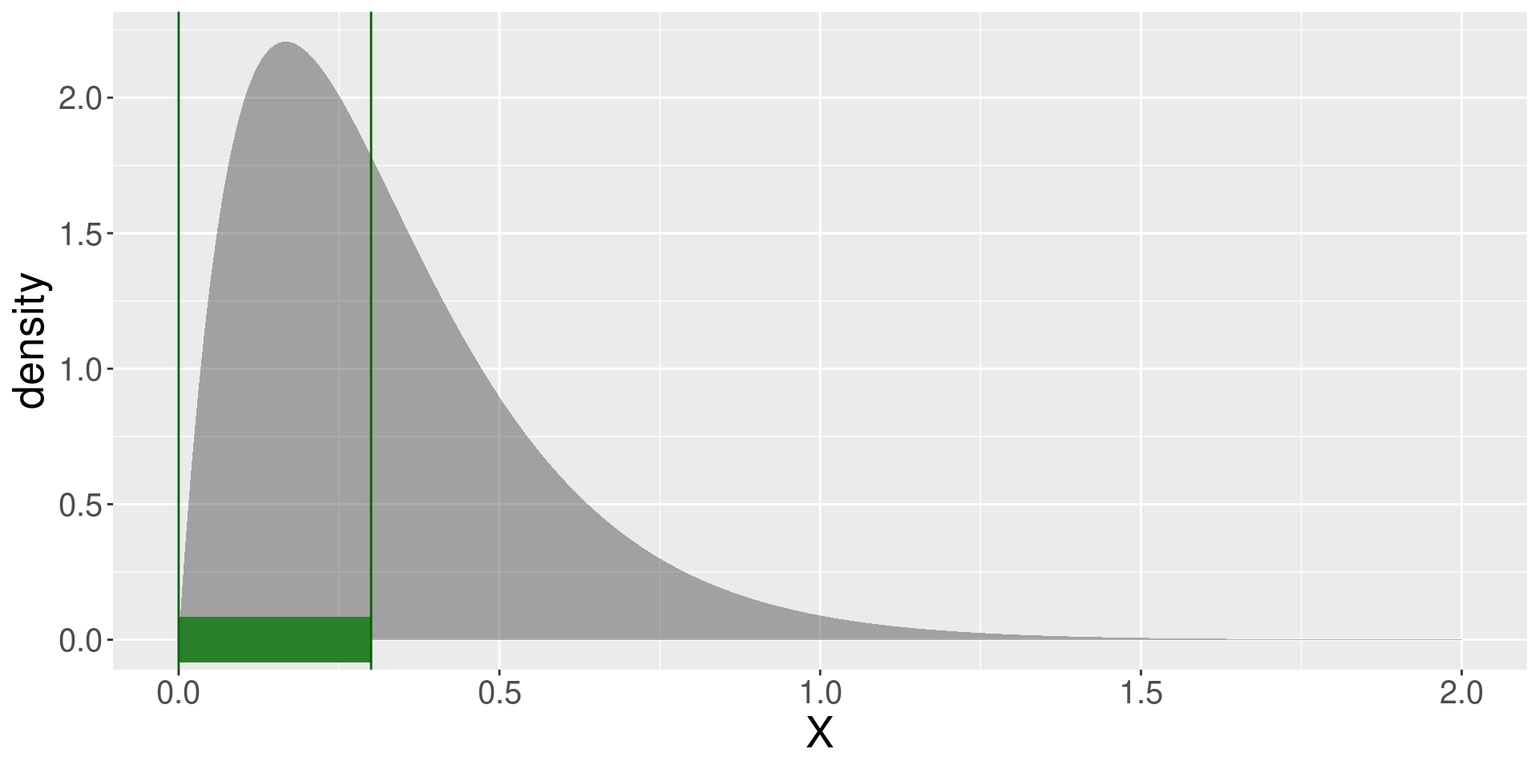
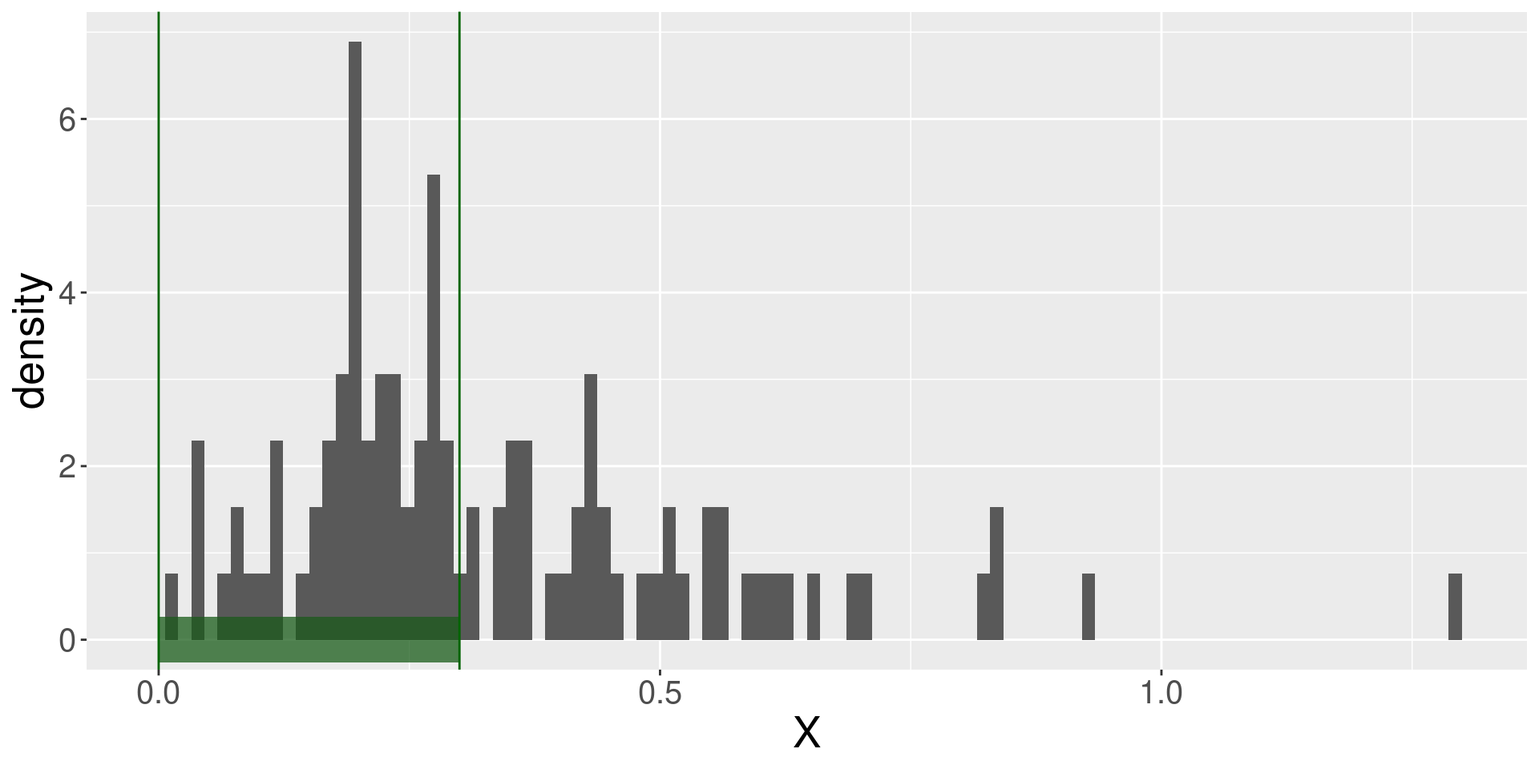
20230930 talk

diff --git a/talks/2023-09-30/index.html b/talks/2023-09-30/index.html
@@ -406,6 +406,7 @@ code {
 
 </div>
 </section>
+<section>
 <section id="a-motivating-example" class="title-slide slide level1 center">
 <h1>A motivating example</h1>
 <p>To estimate how many times I sneeze per hour, I wait and measure the time till my forth sneeze.</p>
@@ -417,7 +418,30 @@ code {
 <li class="fragment"><p>Posterior: <span class="math inline">\(X \vert _Y \sim \Gamma(2+4,6+Y)\)</span></p></li>
 </ul>
 </section>
+<section id="a-motivating-example---cont." class="slide level2">
+<h2>A motivating example - cont.</h2>
+<div class="cell">
+<div class="sourceCode cell-code" id="cb1"><pre class="sourceCode numberSource r number-lines code-with-copy"><code class="sourceCode r"><span id="cb1-1"><a href="#cb1-1"></a><span class="fu">rgamma</span>(<span class="dv">1000</span>, <span class="dv">2</span>, <span class="dv">6</span>) <span class="sc">%&gt;%</span> <span class="fu">qplot</span>()</span></code><button title="Copy to Clipboard" class="code-copy-button"><i class="bi"></i></button></pre></div>
 
+</div>
+<img data-src="index_files/figure-revealjs/unnamed-chunk-3-1.png" width="960" class="r-stretch"></section>
+<section id="a-motivating-example---cont.-1" class="slide level2">
+<h2>A motivating example - cont.</h2>
+<div class="cell">
+<div class="sourceCode cell-code" id="cb2"><pre class="sourceCode numberSource r number-lines code-with-copy"><code class="sourceCode r"><span id="cb2-1"><a href="#cb2-1"></a>(<span class="fu">tibble</span>(<span class="at">x=</span><span class="fu">seq</span>(<span class="dv">0</span>,<span class="dv">2</span>,<span class="fl">0.01</span>),</span>
+<span id="cb2-2"><a href="#cb2-2"></a>        <span class="at">density=</span><span class="fu">dgamma</span>(x, <span class="dv">2</span>, <span class="dv">6</span>)) <span class="sc">%&gt;%</span></span>
+<span id="cb2-3"><a href="#cb2-3"></a>  <span class="fu">ggplot</span>(<span class="fu">aes</span>(x,density)) <span class="sc">+</span> mytheme</span>
+<span id="cb2-4"><a href="#cb2-4"></a>  <span class="sc">+</span> <span class="fu">geom_area</span>())</span></code><button title="Copy to Clipboard" class="code-copy-button"><i class="bi"></i></button></pre></div>
+
+</div>
+<img data-src="index_files/figure-revealjs/unnamed-chunk-4-1.png" width="960" class="r-stretch"></section>
+<section id="a-motivating-example---cont.-2" class="slide level2">
+<h2>A motivating example - cont.</h2>
+<ul>
+<li class="fragment"><p>Waiting for one event of rate <span class="math inline">\(x\)</span> is distributed $Exp(x), <span class="math inline">\(Exp(x) = Gamma(1,x)\)</span> (1-“shape”, <span class="math inline">\(x\)</span>-“rate”),</p></li>
+<li class="fragment"><p>Waiting for 4 events of rate x is distributed <span class="math inline">\(Gamma(4,x)\)</span> (4-shape, <span class="math inline">\(x\)</span>-rate).</p></li>
+</ul>
+</section></section>
 <section>
 <section id="background" class="title-slide slide level1 center">
 <h1>Background</h1>
@@ -440,12 +464,12 @@ code {
 <section id="sample-space-example" class="slide level2">
 <h2>Sample space example</h2>
 <div class="cell">
-<div class="sourceCode cell-code" id="cb1"><pre class="sourceCode numberSource r number-lines code-with-copy"><code class="sourceCode r"><span id="cb1-1"><a href="#cb1-1"></a>N <span class="ot">&lt;-</span> <span class="dv">100</span></span>
-<span id="cb1-2"><a href="#cb1-2"></a><span class="fu">set.seed</span>(<span class="dv">31</span>)</span>
-<span id="cb1-3"><a href="#cb1-3"></a>Omega_finite <span class="ot">&lt;-</span> <span class="fu">tibble</span>(<span class="at">X =</span> <span class="fu">rgamma</span>(N, <span class="dv">2</span>, <span class="dv">6</span>),</span>
-<span id="cb1-4"><a href="#cb1-4"></a>                <span class="at">Y =</span> <span class="fu">rgamma</span>(N, <span class="dv">4</span>, X))</span>
-<span id="cb1-5"><a href="#cb1-5"></a></span>
-<span id="cb1-6"><a href="#cb1-6"></a>Omega_finite <span class="sc">%&gt;%</span> <span class="fu">kable</span>()</span></code><button title="Copy to Clipboard" class="code-copy-button"><i class="bi"></i></button></pre></div>
+<div class="sourceCode cell-code" id="cb3"><pre class="sourceCode numberSource r number-lines code-with-copy"><code class="sourceCode r"><span id="cb3-1"><a href="#cb3-1"></a>N <span class="ot">&lt;-</span> <span class="dv">100</span></span>
+<span id="cb3-2"><a href="#cb3-2"></a><span class="fu">set.seed</span>(<span class="dv">31</span>)</span>
+<span id="cb3-3"><a href="#cb3-3"></a>Omega_finite <span class="ot">&lt;-</span> <span class="fu">tibble</span>(<span class="at">X =</span> <span class="fu">rgamma</span>(N, <span class="dv">2</span>, <span class="dv">6</span>),</span>
+<span id="cb3-4"><a href="#cb3-4"></a>                <span class="at">Y =</span> <span class="fu">rgamma</span>(N, <span class="dv">4</span>, X))</span>
+<span id="cb3-5"><a href="#cb3-5"></a></span>
+<span id="cb3-6"><a href="#cb3-6"></a>Omega_finite <span class="sc">%&gt;%</span> <span class="fu">kable</span>()</span></code><button title="Copy to Clipboard" class="code-copy-button"><i class="bi"></i></button></pre></div>
 <div class="cell-output-display">
 <table>
 <thead>
@@ -863,12 +887,12 @@ code {
 <section id="sample-space-example---cont" class="slide level2">
 <h2>Sample space example - cont</h2>
 <div class="cell">
-<div class="sourceCode cell-code" id="cb2"><pre class="sourceCode numberSource r number-lines code-with-copy"><code class="sourceCode r"><span id="cb2-1"><a href="#cb2-1"></a>(Omega_finite <span class="sc">%&gt;%</span></span>
-<span id="cb2-2"><a href="#cb2-2"></a>  <span class="fu">ggplot</span>(<span class="fu">aes</span>(X,Y))</span>
-<span id="cb2-3"><a href="#cb2-3"></a>  <span class="sc">+</span> <span class="fu">geom_point</span>(<span class="at">size=</span><span class="dv">5</span>))</span></code><button title="Copy to Clipboard" class="code-copy-button"><i class="bi"></i></button></pre></div>
+<div class="sourceCode cell-code" id="cb4"><pre class="sourceCode numberSource r number-lines code-with-copy"><code class="sourceCode r"><span id="cb4-1"><a href="#cb4-1"></a>(Omega_finite <span class="sc">%&gt;%</span></span>
+<span id="cb4-2"><a href="#cb4-2"></a>  <span class="fu">ggplot</span>(<span class="fu">aes</span>(X,Y))</span>
+<span id="cb4-3"><a href="#cb4-3"></a>  <span class="sc">+</span> <span class="fu">geom_point</span>(<span class="at">size=</span><span class="dv">5</span>))</span></code><button title="Copy to Clipboard" class="code-copy-button"><i class="bi"></i></button></pre></div>
 
 </div>
-<img data-src="index_files/figure-revealjs/unnamed-chunk-4-1.png" width="960" class="r-stretch"></section>
+<img data-src="index_files/figure-revealjs/unnamed-chunk-6-1.png" width="960" class="r-stretch"></section>
 <section id="sample-space---remarks" class="slide level2">
 <h2>Sample space - remarks</h2>
 <ul>
@@ -888,9 +912,9 @@ code {
 <h2>Events example</h2>
 <p>“all outcomes <span class="math inline">\(\omega\)</span> in <span class="math inline">\(\Omega_{finite}\)</span> in which I waited at least five hours”</p>
 <div class="cell">
-<div class="sourceCode cell-code" id="cb3"><pre class="sourceCode numberSource r number-lines code-with-copy"><code class="sourceCode r"><span id="cb3-1"><a href="#cb3-1"></a>Omega_finite <span class="sc">%&gt;%</span></span>
-<span id="cb3-2"><a href="#cb3-2"></a><span class="fu">filter</span>(Y<span class="sc">&gt;</span><span class="dv">5</span>) <span class="sc">%&gt;%</span></span>
-<span id="cb3-3"><a href="#cb3-3"></a><span class="fu">kable</span>()</span></code><button title="Copy to Clipboard" class="code-copy-button"><i class="bi"></i></button></pre></div>
+<div class="sourceCode cell-code" id="cb5"><pre class="sourceCode numberSource r number-lines code-with-copy"><code class="sourceCode r"><span id="cb5-1"><a href="#cb5-1"></a>Omega_finite <span class="sc">%&gt;%</span></span>
+<span id="cb5-2"><a href="#cb5-2"></a><span class="fu">filter</span>(Y<span class="sc">&gt;</span><span class="dv">5</span>) <span class="sc">%&gt;%</span></span>
+<span id="cb5-3"><a href="#cb5-3"></a><span class="fu">kable</span>()</span></code><button title="Copy to Clipboard" class="code-copy-button"><i class="bi"></i></button></pre></div>
 <div class="cell-output-display">
 <table>
 <thead>
@@ -1249,6 +1273,17 @@ code {
 </div>
 </div>
 </section>
+<section id="events-example---cont." class="slide level2">
+<h2>Events example - cont.</h2>
+<div class="cell">
+<div class="sourceCode cell-code" id="cb6"><pre class="sourceCode numberSource r number-lines code-with-copy"><code class="sourceCode r"><span id="cb6-1"><a href="#cb6-1"></a>Omega_finite <span class="sc">%&gt;%</span></span>
+<span id="cb6-2"><a href="#cb6-2"></a><span class="fu">filter</span>(Y<span class="sc">&gt;</span><span class="dv">5</span>) <span class="sc">%&gt;%</span></span>
+<span id="cb6-3"><a href="#cb6-3"></a><span class="fu">nrow</span>()</span></code><button title="Copy to Clipboard" class="code-copy-button"><i class="bi"></i></button></pre></div>
+<div class="cell-output cell-output-stdout">
+<pre><code>[1] 86</code></pre>
+</div>
+</div>
+</section>
 <section id="event-space" class="slide level2">
 <h2>Event space</h2>
 <ul>
@@ -1266,9 +1301,9 @@ code {
 <h2>Event space example</h2>
 <p>In this sample space:</p>
 <div class="cell">
-<div class="sourceCode cell-code" id="cb4"><pre class="sourceCode numberSource r number-lines code-with-copy"><code class="sourceCode r"><span id="cb4-1"><a href="#cb4-1"></a><span class="fu">tibble</span>(<span class="at">U=</span><span class="fu">c</span>(<span class="dv">1</span>,<span class="dv">1</span>,<span class="dv">2</span>,<span class="dv">2</span>),</span>
-<span id="cb4-2"><a href="#cb4-2"></a>       <span class="at">V=</span><span class="fu">c</span>(<span class="dv">3</span>,<span class="dv">4</span>,<span class="dv">3</span>,<span class="dv">4</span>)) <span class="sc">%&gt;%</span></span>
-<span id="cb4-3"><a href="#cb4-3"></a><span class="fu">kable</span>()</span></code><button title="Copy to Clipboard" class="code-copy-button"><i class="bi"></i></button></pre></div>
+<div class="sourceCode cell-code" id="cb8"><pre class="sourceCode numberSource r number-lines code-with-copy"><code class="sourceCode r"><span id="cb8-1"><a href="#cb8-1"></a><span class="fu">tibble</span>(<span class="at">U=</span><span class="fu">c</span>(<span class="dv">1</span>,<span class="dv">1</span>,<span class="dv">2</span>,<span class="dv">2</span>),</span>
+<span id="cb8-2"><a href="#cb8-2"></a>       <span class="at">V=</span><span class="fu">c</span>(<span class="dv">3</span>,<span class="dv">4</span>,<span class="dv">3</span>,<span class="dv">4</span>)) <span class="sc">%&gt;%</span></span>
+<span id="cb8-3"><a href="#cb8-3"></a><span class="fu">kable</span>()</span></code><button title="Copy to Clipboard" class="code-copy-button"><i class="bi"></i></button></pre></div>
 <div class="cell-output-display">
 <table>
 <thead>
@@ -1319,7 +1354,7 @@ code {
 <section id="random-variables-example" class="slide level2">
 <h2>Random variables example</h2>
 <div class="cell">
-<div class="sourceCode cell-code" id="cb5"><pre class="sourceCode numberSource r number-lines code-with-copy"><code class="sourceCode r"><span id="cb5-1"><a href="#cb5-1"></a>Omega_finite <span class="sc">%&gt;%</span> <span class="fu">kable</span>()</span></code><button title="Copy to Clipboard" class="code-copy-button"><i class="bi"></i></button></pre></div>
+<div class="sourceCode cell-code" id="cb9"><pre class="sourceCode numberSource r number-lines code-with-copy"><code class="sourceCode r"><span id="cb9-1"><a href="#cb9-1"></a>Omega_finite <span class="sc">%&gt;%</span> <span class="fu">kable</span>()</span></code><button title="Copy to Clipboard" class="code-copy-button"><i class="bi"></i></button></pre></div>
 <div class="cell-output-display">
 <table>
 <thead>
@@ -1737,7 +1772,7 @@ code {
 <section id="random-variables-example---cont." class="slide level2">
 <h2>Random variables example - cont.</h2>
 <div class="cell">
-<div class="sourceCode cell-code" id="cb6"><pre class="sourceCode numberSource r number-lines code-with-copy"><code class="sourceCode r"><span id="cb6-1"><a href="#cb6-1"></a>Omega_finite<span class="sc">$</span>X[<span class="dv">13</span>]</span></code><button title="Copy to Clipboard" class="code-copy-button"><i class="bi"></i></button></pre></div>
+<div class="sourceCode cell-code" id="cb10"><pre class="sourceCode numberSource r number-lines code-with-copy"><code class="sourceCode r"><span id="cb10-1"><a href="#cb10-1"></a>Omega_finite<span class="sc">$</span>X[<span class="dv">13</span>]</span></code><button title="Copy to Clipboard" class="code-copy-button"><i class="bi"></i></button></pre></div>
 <div class="cell-output cell-output-stdout">
 <pre><code>[1] 1.293</code></pre>
 </div>
@@ -1746,8 +1781,8 @@ code {
 <section id="random-variables-coexist" class="slide level2">
 <h2>Random variables coexist</h2>
 <div class="cell">
-<div class="sourceCode cell-code" id="cb8"><pre class="sourceCode numberSource r number-lines code-with-copy"><code class="sourceCode r"><span id="cb8-1"><a href="#cb8-1"></a><span class="fu">c</span>(Omega_finite<span class="sc">$</span>X[<span class="dv">13</span>],</span>
-<span id="cb8-2"><a href="#cb8-2"></a>  Omega_finite<span class="sc">$</span>Y[<span class="dv">13</span>])</span></code><button title="Copy to Clipboard" class="code-copy-button"><i class="bi"></i></button></pre></div>
+<div class="sourceCode cell-code" id="cb12"><pre class="sourceCode numberSource r number-lines code-with-copy"><code class="sourceCode r"><span id="cb12-1"><a href="#cb12-1"></a><span class="fu">c</span>(Omega_finite<span class="sc">$</span>X[<span class="dv">13</span>],</span>
+<span id="cb12-2"><a href="#cb12-2"></a>  Omega_finite<span class="sc">$</span>Y[<span class="dv">13</span>])</span></code><button title="Copy to Clipboard" class="code-copy-button"><i class="bi"></i></button></pre></div>
 <div class="cell-output cell-output-stdout">
 <pre><code>[1] 1.293000 2.958485</code></pre>
 </div>
@@ -1761,10 +1796,10 @@ code {
 <h2>Events of random variables</h2>
 <p><span class="math display">\[Y&gt;5\]</span> means the subset of <span class="math inline">\(\Omega_{finite}\)</span>: <span class="math display">\[\{\omega \in \Omega_{finite} \vert Y(\omega)&gt;5\}\]</span></p>
 <div class="cell">
-<div class="sourceCode cell-code" id="cb10"><pre class="sourceCode numberSource r number-lines code-with-copy"><code class="sourceCode r"><span id="cb10-1"><a href="#cb10-1"></a>Y_is_more_than_five <span class="ot">&lt;-</span> </span>
-<span id="cb10-2"><a href="#cb10-2"></a>  Omega_finite <span class="sc">%&gt;%</span> </span>
-<span id="cb10-3"><a href="#cb10-3"></a>  <span class="fu">filter</span>(Y<span class="sc">&gt;</span><span class="dv">5</span>)</span>
-<span id="cb10-4"><a href="#cb10-4"></a><span class="fu">nrow</span>(Y_is_more_than_five)</span></code><button title="Copy to Clipboard" class="code-copy-button"><i class="bi"></i></button></pre></div>
+<div class="sourceCode cell-code" id="cb14"><pre class="sourceCode numberSource r number-lines code-with-copy"><code class="sourceCode r"><span id="cb14-1"><a href="#cb14-1"></a>Y_is_more_than_five <span class="ot">&lt;-</span> </span>
+<span id="cb14-2"><a href="#cb14-2"></a>  Omega_finite <span class="sc">%&gt;%</span> </span>
+<span id="cb14-3"><a href="#cb14-3"></a>  <span class="fu">filter</span>(Y<span class="sc">&gt;</span><span class="dv">5</span>)</span>
+<span id="cb14-4"><a href="#cb14-4"></a><span class="fu">nrow</span>(Y_is_more_than_five)</span></code><button title="Copy to Clipboard" class="code-copy-button"><i class="bi"></i></button></pre></div>
 <div class="cell-output cell-output-stdout">
 <pre><code>[1] 86</code></pre>
 </div>
@@ -1782,7 +1817,7 @@ code {
 <ul>
 <li class="fragment"><span class="math inline">\(\mathbb{P}(E) \geq 0\)</span> for all <span class="math inline">\(E\)</span> in <span class="math inline">\(\mathcal{F}\)</span></li>
 <li class="fragment"><span class="math inline">\(\mathbb{P}(\Omega) = 1\)</span></li>
-<li class="fragment"><span class="math inline">\(\mathbb{P}(\bigcup_{i=1,2,...} E_i) = \sum_{i=1,2,...} \mathbb{P}(E_i)\)</span></li>
+<li class="fragment"><span class="math inline">\(\mathbb{P}(\bigcup_{i=1,2,...} E_i) = \sum_{i=1,2,...} \mathbb{P}(E_i)\)</span> for pairwise disjoint events</li>
 </ul></li>
 <li class="fragment">A sample space with a probability measure is called a probability space.</li>
 </ul>
@@ -1791,10 +1826,10 @@ code {
 <h2>Probability example</h2>
 <p>For our finite example, we may define probabilities proportional to number of outcomes.</p>
 <div class="cell">
-<div class="sourceCode cell-code" id="cb12"><pre class="sourceCode numberSource r number-lines code-with-copy"><code class="sourceCode r"><span id="cb12-1"><a href="#cb12-1"></a>P_finite <span class="ot">&lt;-</span> (<span class="cf">function</span>(event)</span>
-<span id="cb12-2"><a href="#cb12-2"></a>  <span class="fu">nrow</span>(event)<span class="sc">/</span>N)</span>
-<span id="cb12-3"><a href="#cb12-3"></a></span>
-<span id="cb12-4"><a href="#cb12-4"></a><span class="fu">P_finite</span>(Y_is_more_than_five)</span></code><button title="Copy to Clipboard" class="code-copy-button"><i class="bi"></i></button></pre></div>
+<div class="sourceCode cell-code" id="cb16"><pre class="sourceCode numberSource r number-lines code-with-copy"><code class="sourceCode r"><span id="cb16-1"><a href="#cb16-1"></a>P_finite <span class="ot">&lt;-</span> (<span class="cf">function</span>(event)</span>
+<span id="cb16-2"><a href="#cb16-2"></a>  <span class="fu">nrow</span>(event)<span class="sc">/</span>N)</span>
+<span id="cb16-3"><a href="#cb16-3"></a></span>
+<span id="cb16-4"><a href="#cb16-4"></a><span class="fu">P_finite</span>(Y_is_more_than_five)</span></code><button title="Copy to Clipboard" class="code-copy-button"><i class="bi"></i></button></pre></div>
 <div class="cell-output cell-output-stdout">
 <pre><code>[1] 0.86</code></pre>
 </div>
@@ -1812,15 +1847,15 @@ code {
 <section id="distribution-example---cont." class="slide level2">
 <h2>Distribution example - cont.</h2>
 <div class="cell">
-<div class="sourceCode cell-code" id="cb14"><pre class="sourceCode numberSource r number-lines code-with-copy"><code class="sourceCode r"><span id="cb14-1"><a href="#cb14-1"></a>(Omega_finite <span class="sc">%&gt;%</span> <span class="fu">ggplot</span>() <span class="sc">+</span> mytheme</span>
-<span id="cb14-2"><a href="#cb14-2"></a>  <span class="sc">+</span> <span class="fu">geom_histogram</span>(<span class="fu">aes</span>(X,..density..), <span class="at">bins=</span><span class="dv">100</span>)</span>
-<span id="cb14-3"><a href="#cb14-3"></a>  <span class="sc">+</span> <span class="fu">geom_segment</span>(<span class="at">x=</span><span class="dv">0</span>, <span class="at">xend=</span><span class="fl">0.3</span>, <span class="at">y=</span><span class="dv">0</span>, <span class="at">yend=</span><span class="dv">0</span>, <span class="at">size=</span><span class="dv">10</span>,</span>
-<span id="cb14-4"><a href="#cb14-4"></a>                 <span class="at">color=</span><span class="st">"darkgreen"</span>, <span class="at">alpha=</span><span class="fl">0.01</span>)</span>
-<span id="cb14-5"><a href="#cb14-5"></a>  <span class="sc">+</span> <span class="fu">geom_vline</span>(<span class="at">xintercept=</span><span class="fu">c</span>(<span class="dv">0</span>,<span class="fl">0.3</span>), <span class="at">color=</span><span class="st">"darkgreen"</span>))</span></code><button title="Copy to Clipboard" class="code-copy-button"><i class="bi"></i></button></pre></div>
+<div class="sourceCode cell-code" id="cb18"><pre class="sourceCode numberSource r number-lines code-with-copy"><code class="sourceCode r"><span id="cb18-1"><a href="#cb18-1"></a>(Omega_finite <span class="sc">%&gt;%</span> <span class="fu">ggplot</span>() <span class="sc">+</span> mytheme</span>
+<span id="cb18-2"><a href="#cb18-2"></a>  <span class="sc">+</span> <span class="fu">geom_histogram</span>(<span class="fu">aes</span>(X,..density..), <span class="at">bins=</span><span class="dv">100</span>)</span>
+<span id="cb18-3"><a href="#cb18-3"></a>  <span class="sc">+</span> <span class="fu">geom_segment</span>(<span class="at">x=</span><span class="dv">0</span>, <span class="at">xend=</span><span class="fl">0.3</span>, <span class="at">y=</span><span class="dv">0</span>, <span class="at">yend=</span><span class="dv">0</span>, <span class="at">size=</span><span class="dv">10</span>,</span>
+<span id="cb18-4"><a href="#cb18-4"></a>                 <span class="at">color=</span><span class="st">"darkgreen"</span>, <span class="at">alpha=</span><span class="fl">0.01</span>)</span>
+<span id="cb18-5"><a href="#cb18-5"></a>  <span class="sc">+</span> <span class="fu">geom_vline</span>(<span class="at">xintercept=</span><span class="fu">c</span>(<span class="dv">0</span>,<span class="fl">0.3</span>), <span class="at">color=</span><span class="st">"darkgreen"</span>))</span></code><button title="Copy to Clipboard" class="code-copy-button"><i class="bi"></i></button></pre></div>
 
 </div>
-<img data-src="index_files/figure-revealjs/unnamed-chunk-12-1.png" width="960" class="r-stretch"><div class="cell">
-<div class="sourceCode cell-code" id="cb15"><pre class="sourceCode numberSource r number-lines code-with-copy"><code class="sourceCode r"><span id="cb15-1"><a href="#cb15-1"></a>Omega_finite <span class="sc">%&gt;%</span> <span class="fu">filter</span>(<span class="dv">0</span> <span class="sc">&lt;</span> X <span class="sc">&amp;</span> X <span class="sc">&lt;</span> <span class="fl">0.3</span>) <span class="sc">%&gt;%</span> <span class="fu">P_finite</span>()</span></code><button title="Copy to Clipboard" class="code-copy-button"><i class="bi"></i></button></pre></div>
+<img data-src="index_files/figure-revealjs/unnamed-chunk-15-1.png" width="960" class="r-stretch"><div class="cell">
+<div class="sourceCode cell-code" id="cb19"><pre class="sourceCode numberSource r number-lines code-with-copy"><code class="sourceCode r"><span id="cb19-1"><a href="#cb19-1"></a>Omega_finite <span class="sc">%&gt;%</span> <span class="fu">filter</span>(<span class="dv">0</span> <span class="sc">&lt;</span> X <span class="sc">&amp;</span> X <span class="sc">&lt;</span> <span class="fl">0.3</span>) <span class="sc">%&gt;%</span> <span class="fu">P_finite</span>()</span></code><button title="Copy to Clipboard" class="code-copy-button"><i class="bi"></i></button></pre></div>
 <div class="cell-output cell-output-stdout">
 <pre><code>[1] 0.57</code></pre>
 </div>
@@ -1834,13 +1869,13 @@ code {
 <section id="joint-distribution-example" class="slide level2">
 <h2>Joint distribution example</h2>
 <div class="cell">
-<div class="sourceCode cell-code" id="cb17"><pre class="sourceCode numberSource r number-lines code-with-copy"><code class="sourceCode r"><span id="cb17-1"><a href="#cb17-1"></a>(<span class="fu">ggplot</span>(Omega_finite) <span class="sc">+</span> mytheme</span>
-<span id="cb17-2"><a href="#cb17-2"></a>  <span class="sc">+</span> <span class="fu">geom_point</span>(<span class="fu">aes</span>(X,Y), <span class="at">size=</span><span class="dv">5</span>)</span>
-<span id="cb17-3"><a href="#cb17-3"></a>  <span class="sc">+</span> <span class="fu">geom_rect</span>(<span class="at">xmin=</span><span class="dv">0</span>, <span class="at">xmax=</span><span class="fl">0.3</span>, <span class="at">ymin=</span><span class="dv">30</span>, <span class="at">ymax=</span><span class="dv">1000</span>,</span>
-<span id="cb17-4"><a href="#cb17-4"></a>              <span class="at">fill=</span><span class="st">"darkgreen"</span>, <span class="at">alpha=</span><span class="fl">0.01</span>))</span></code><button title="Copy to Clipboard" class="code-copy-button"><i class="bi"></i></button></pre></div>
+<div class="sourceCode cell-code" id="cb21"><pre class="sourceCode numberSource r number-lines code-with-copy"><code class="sourceCode r"><span id="cb21-1"><a href="#cb21-1"></a>(<span class="fu">ggplot</span>(Omega_finite) <span class="sc">+</span> mytheme</span>
+<span id="cb21-2"><a href="#cb21-2"></a>  <span class="sc">+</span> <span class="fu">geom_point</span>(<span class="fu">aes</span>(X,Y), <span class="at">size=</span><span class="dv">5</span>)</span>
+<span id="cb21-3"><a href="#cb21-3"></a>  <span class="sc">+</span> <span class="fu">geom_rect</span>(<span class="at">xmin=</span><span class="dv">0</span>, <span class="at">xmax=</span><span class="fl">0.3</span>, <span class="at">ymin=</span><span class="dv">30</span>, <span class="at">ymax=</span><span class="dv">1000</span>,</span>
+<span id="cb21-4"><a href="#cb21-4"></a>              <span class="at">fill=</span><span class="st">"darkgreen"</span>, <span class="at">alpha=</span><span class="fl">0.01</span>))</span></code><button title="Copy to Clipboard" class="code-copy-button"><i class="bi"></i></button></pre></div>
 
 </div>
-<img data-src="index_files/figure-revealjs/unnamed-chunk-14-1.png" width="960" class="r-stretch"></section></section>
+<img data-src="index_files/figure-revealjs/unnamed-chunk-17-1.png" width="960" class="r-stretch"></section></section>
 <section>
 <section id="density" class="title-slide slide level1 center">
 <h1>Density</h1>
@@ -1849,28 +1884,28 @@ code {
 <section id="density-example" class="slide level2">
 <h2>Density example</h2>
 <div class="cell">
-<div class="sourceCode cell-code" id="cb18"><pre class="sourceCode numberSource r number-lines code-with-copy"><code class="sourceCode r"><span id="cb18-1"><a href="#cb18-1"></a>(<span class="fu">tibble</span>(<span class="at">X=</span><span class="fu">seq</span>(<span class="dv">0</span>,<span class="dv">2</span>,<span class="fl">0.01</span>),</span>
-<span id="cb18-2"><a href="#cb18-2"></a>        <span class="at">density=</span><span class="fu">dgamma</span>(X,<span class="dv">2</span>,<span class="dv">6</span>)) <span class="sc">%&gt;%</span></span>
-<span id="cb18-3"><a href="#cb18-3"></a>  <span class="fu">ggplot</span>(<span class="fu">aes</span>(X,density)) <span class="sc">+</span> mytheme</span>
-<span id="cb18-4"><a href="#cb18-4"></a>  <span class="sc">+</span> <span class="fu">geom_area</span>(<span class="at">size=</span><span class="dv">3</span>, <span class="at">alpha=</span><span class="fl">0.4</span>)</span>
-<span id="cb18-5"><a href="#cb18-5"></a>  <span class="sc">+</span> <span class="fu">geom_segment</span>(<span class="at">x=</span><span class="dv">0</span>, <span class="at">xend=</span><span class="fl">0.3</span>, <span class="at">y=</span><span class="dv">0</span>, <span class="at">yend=</span><span class="dv">0</span>, <span class="at">size=</span><span class="dv">10</span>,</span>
-<span id="cb18-6"><a href="#cb18-6"></a>                 <span class="at">color=</span><span class="st">"darkgreen"</span>, <span class="at">alpha=</span><span class="fl">0.01</span>)</span>
-<span id="cb18-7"><a href="#cb18-7"></a>  <span class="sc">+</span> <span class="fu">geom_vline</span>(<span class="at">xintercept=</span><span class="fu">c</span>(<span class="dv">0</span>,<span class="fl">0.3</span>), <span class="at">color=</span><span class="st">"darkgreen"</span>))</span></code><button title="Copy to Clipboard" class="code-copy-button"><i class="bi"></i></button></pre></div>
+<div class="sourceCode cell-code" id="cb22"><pre class="sourceCode numberSource r number-lines code-with-copy"><code class="sourceCode r"><span id="cb22-1"><a href="#cb22-1"></a>(<span class="fu">tibble</span>(<span class="at">X=</span><span class="fu">seq</span>(<span class="dv">0</span>,<span class="dv">2</span>,<span class="fl">0.01</span>),</span>
+<span id="cb22-2"><a href="#cb22-2"></a>        <span class="at">density=</span><span class="fu">dgamma</span>(X,<span class="dv">2</span>,<span class="dv">6</span>)) <span class="sc">%&gt;%</span></span>
+<span id="cb22-3"><a href="#cb22-3"></a>  <span class="fu">ggplot</span>(<span class="fu">aes</span>(X,density)) <span class="sc">+</span> mytheme</span>
+<span id="cb22-4"><a href="#cb22-4"></a>  <span class="sc">+</span> <span class="fu">geom_area</span>(<span class="at">size=</span><span class="dv">3</span>, <span class="at">alpha=</span><span class="fl">0.4</span>)</span>
+<span id="cb22-5"><a href="#cb22-5"></a>  <span class="sc">+</span> <span class="fu">geom_segment</span>(<span class="at">x=</span><span class="dv">0</span>, <span class="at">xend=</span><span class="fl">0.3</span>, <span class="at">y=</span><span class="dv">0</span>, <span class="at">yend=</span><span class="dv">0</span>, <span class="at">size=</span><span class="dv">10</span>,</span>
+<span id="cb22-6"><a href="#cb22-6"></a>                 <span class="at">color=</span><span class="st">"darkgreen"</span>, <span class="at">alpha=</span><span class="fl">0.01</span>)</span>
+<span id="cb22-7"><a href="#cb22-7"></a>  <span class="sc">+</span> <span class="fu">geom_vline</span>(<span class="at">xintercept=</span><span class="fu">c</span>(<span class="dv">0</span>,<span class="fl">0.3</span>), <span class="at">color=</span><span class="st">"darkgreen"</span>))</span></code><button title="Copy to Clipboard" class="code-copy-button"><i class="bi"></i></button></pre></div>
 
 </div>
-<img data-src="index_files/figure-revealjs/unnamed-chunk-15-1.png" width="960" class="r-stretch"></section>
+<img data-src="index_files/figure-revealjs/unnamed-chunk-18-1.png" width="960" class="r-stretch"></section>
 <section id="joint-density-example" class="slide level2">
 <h2>Joint density example</h2>
 <div class="cell">
-<div class="sourceCode cell-code" id="cb19"><pre class="sourceCode numberSource r number-lines code-with-copy"><code class="sourceCode r"><span id="cb19-1"><a href="#cb19-1"></a>(<span class="fu">expand.grid</span>(<span class="at">X=</span><span class="fu">seq</span>(<span class="dv">0</span>,<span class="dv">2</span>,<span class="fl">0.01</span>), <span class="at">Y=</span><span class="fu">seq</span>(<span class="dv">0</span>,<span class="dv">100</span>,<span class="dv">1</span>)) <span class="sc">%&gt;%</span></span>
-<span id="cb19-2"><a href="#cb19-2"></a>  <span class="fu">mutate</span>(<span class="at">density =</span> <span class="fu">dgamma</span>(X,<span class="dv">2</span>,<span class="dv">6</span>) <span class="sc">*</span> <span class="fu">dgamma</span>(Y,<span class="dv">4</span>,X)) <span class="sc">%&gt;%</span></span>
-<span id="cb19-3"><a href="#cb19-3"></a>  <span class="fu">ggplot</span>(<span class="fu">aes</span>(X,Y,<span class="at">z=</span>density)) <span class="sc">+</span> mytheme</span>
-<span id="cb19-4"><a href="#cb19-4"></a>  <span class="sc">+</span> <span class="fu">geom_raster</span>(<span class="fu">aes</span>(<span class="at">fill=</span>density))</span>
-<span id="cb19-5"><a href="#cb19-5"></a>  <span class="sc">+</span> <span class="fu">geom_rect</span>(<span class="at">xmin=</span><span class="dv">0</span>, <span class="at">xmax=</span><span class="fl">0.3</span>, <span class="at">ymin=</span><span class="dv">30</span>, <span class="at">ymax=</span><span class="dv">1000</span>,</span>
-<span id="cb19-6"><a href="#cb19-6"></a>              <span class="at">color=</span><span class="st">"lightgreen"</span>, <span class="at">alpha=</span><span class="fl">0.001</span>))</span></code><button title="Copy to Clipboard" class="code-copy-button"><i class="bi"></i></button></pre></div>
+<div class="sourceCode cell-code" id="cb23"><pre class="sourceCode numberSource r number-lines code-with-copy"><code class="sourceCode r"><span id="cb23-1"><a href="#cb23-1"></a>(<span class="fu">expand.grid</span>(<span class="at">X=</span><span class="fu">seq</span>(<span class="dv">0</span>,<span class="dv">2</span>,<span class="fl">0.01</span>), <span class="at">Y=</span><span class="fu">seq</span>(<span class="dv">0</span>,<span class="dv">100</span>,<span class="dv">1</span>)) <span class="sc">%&gt;%</span></span>
+<span id="cb23-2"><a href="#cb23-2"></a>  <span class="fu">mutate</span>(<span class="at">density =</span> <span class="fu">dgamma</span>(X,<span class="dv">2</span>,<span class="dv">6</span>) <span class="sc">*</span> <span class="fu">dgamma</span>(Y,<span class="dv">4</span>,X)) <span class="sc">%&gt;%</span></span>
+<span id="cb23-3"><a href="#cb23-3"></a>  <span class="fu">ggplot</span>(<span class="fu">aes</span>(X,Y,<span class="at">z=</span>density)) <span class="sc">+</span> mytheme</span>
+<span id="cb23-4"><a href="#cb23-4"></a>  <span class="sc">+</span> <span class="fu">geom_raster</span>(<span class="fu">aes</span>(<span class="at">fill=</span>density))</span>
+<span id="cb23-5"><a href="#cb23-5"></a>  <span class="sc">+</span> <span class="fu">geom_rect</span>(<span class="at">xmin=</span><span class="dv">0</span>, <span class="at">xmax=</span><span class="fl">0.3</span>, <span class="at">ymin=</span><span class="dv">30</span>, <span class="at">ymax=</span><span class="dv">1000</span>,</span>
+<span id="cb23-6"><a href="#cb23-6"></a>              <span class="at">color=</span><span class="st">"lightgreen"</span>, <span class="at">alpha=</span><span class="fl">0.001</span>))</span></code><button title="Copy to Clipboard" class="code-copy-button"><i class="bi"></i></button></pre></div>
 
 </div>
-<img data-src="index_files/figure-revealjs/unnamed-chunk-16-1.png" width="960" class="r-stretch"></section></section>
+<img data-src="index_files/figure-revealjs/unnamed-chunk-19-1.png" width="960" class="r-stretch"></section></section>
 <section>
 <section id="expectation" class="title-slide slide level1 center">
 <h1>Expectation</h1>
@@ -1920,49 +1955,49 @@ code {
 <section id="conditional-distribution-example" class="slide level2">
 <h2>Conditional distribution example</h2>
 <div class="cell">
-<div class="sourceCode cell-code" id="cb20"><pre class="sourceCode numberSource r number-lines code-with-copy"><code class="sourceCode r"><span id="cb20-1"><a href="#cb20-1"></a>(Omega_finite <span class="sc">%&gt;%</span></span>
-<span id="cb20-2"><a href="#cb20-2"></a>  <span class="fu">ggplot</span>(<span class="fu">aes</span>(X,..density..)) <span class="sc">+</span> mytheme</span>
-<span id="cb20-3"><a href="#cb20-3"></a>  <span class="sc">+</span> <span class="fu">geom_histogram</span>())</span></code><button title="Copy to Clipboard" class="code-copy-button"><i class="bi"></i></button></pre></div>
-
-</div>
-<img data-src="index_files/figure-revealjs/unnamed-chunk-17-1.png" width="960" class="r-stretch"></section>
-<section id="conditional-distribution-example---cont." class="slide level2">
-<h2>Conditional distribution example - cont.</h2>
-<div class="cell">
-<div class="sourceCode cell-code" id="cb21"><pre class="sourceCode numberSource r number-lines code-with-copy"><code class="sourceCode r"><span id="cb21-1"><a href="#cb21-1"></a>(<span class="fu">ggplot</span>(Omega_finite) <span class="sc">+</span> mytheme</span>
-<span id="cb21-2"><a href="#cb21-2"></a>  <span class="sc">+</span> <span class="fu">geom_point</span>(<span class="fu">aes</span>(X,Y), <span class="at">size=</span><span class="dv">5</span>)</span>
-<span id="cb21-3"><a href="#cb21-3"></a>  <span class="sc">+</span> <span class="fu">geom_rect</span>(<span class="at">xmin=</span><span class="dv">0</span>, <span class="at">xmax=</span><span class="dv">2</span>, <span class="at">ymin=</span><span class="dv">10</span>, <span class="at">ymax=</span><span class="dv">1000</span>,</span>
-<span id="cb21-4"><a href="#cb21-4"></a>              <span class="at">fill=</span><span class="st">"#00BFC4"</span>, <span class="at">alpha=</span><span class="fl">0.01</span>))</span></code><button title="Copy to Clipboard" class="code-copy-button"><i class="bi"></i></button></pre></div>
-
-</div>
-<img data-src="index_files/figure-revealjs/unnamed-chunk-18-1.png" width="960" class="r-stretch"></section>
-<section id="conditional-distribution-example---cont.-1" class="slide level2">
-<h2>Conditional distribution example - cont.</h2>
-<div class="cell">
-<div class="sourceCode cell-code" id="cb22"><pre class="sourceCode numberSource r number-lines code-with-copy"><code class="sourceCode r"><span id="cb22-1"><a href="#cb22-1"></a>(<span class="fu">ggplot</span>(Omega_finite) <span class="sc">+</span> mytheme</span>
-<span id="cb22-2"><a href="#cb22-2"></a>  <span class="sc">+</span> <span class="fu">geom_point</span>(<span class="fu">aes</span>(X,Y,<span class="at">color=</span>Y<span class="sc">&gt;</span><span class="dv">10</span>), <span class="at">size=</span><span class="dv">5</span>))</span></code><button title="Copy to Clipboard" class="code-copy-button"><i class="bi"></i></button></pre></div>
-
-</div>
-<img data-src="index_files/figure-revealjs/unnamed-chunk-19-1.png" width="960" class="r-stretch"></section>
-<section id="conditional-distribution---cont." class="slide level2">
-<h2>Conditional distribution - cont.</h2>
-<div class="cell">
-<div class="sourceCode cell-code" id="cb23"><pre class="sourceCode numberSource r number-lines code-with-copy"><code class="sourceCode r"><span id="cb23-1"><a href="#cb23-1"></a>(Omega_finite <span class="sc">%&gt;%</span></span>
-<span id="cb23-2"><a href="#cb23-2"></a>    <span class="fu">ggplot</span>(<span class="fu">aes</span>(X,..density..)) <span class="sc">+</span> mytheme</span>
-<span id="cb23-3"><a href="#cb23-3"></a>  <span class="sc">+</span> <span class="fu">geom_histogram</span>(<span class="fu">aes</span>(<span class="at">fill=</span><span class="fu">factor</span>(Y<span class="sc">&gt;</span><span class="dv">10</span>)),</span>
-<span id="cb23-4"><a href="#cb23-4"></a>                   <span class="at">position=</span><span class="st">"identity"</span>,</span>
-<span id="cb23-5"><a href="#cb23-5"></a>                   <span class="at">alpha=</span><span class="fl">0.8</span>))</span></code><button title="Copy to Clipboard" class="code-copy-button"><i class="bi"></i></button></pre></div>
+<div class="sourceCode cell-code" id="cb24"><pre class="sourceCode numberSource r number-lines code-with-copy"><code class="sourceCode r"><span id="cb24-1"><a href="#cb24-1"></a>(Omega_finite <span class="sc">%&gt;%</span></span>
+<span id="cb24-2"><a href="#cb24-2"></a>  <span class="fu">ggplot</span>(<span class="fu">aes</span>(X,..density..)) <span class="sc">+</span> mytheme</span>
+<span id="cb24-3"><a href="#cb24-3"></a>  <span class="sc">+</span> <span class="fu">geom_histogram</span>())</span></code><button title="Copy to Clipboard" class="code-copy-button"><i class="bi"></i></button></pre></div>
 
 </div>
 <img data-src="index_files/figure-revealjs/unnamed-chunk-20-1.png" width="960" class="r-stretch"></section>
+<section id="conditional-distribution-example---cont." class="slide level2">
+<h2>Conditional distribution example - cont.</h2>
+<div class="cell">
+<div class="sourceCode cell-code" id="cb25"><pre class="sourceCode numberSource r number-lines code-with-copy"><code class="sourceCode r"><span id="cb25-1"><a href="#cb25-1"></a>(<span class="fu">ggplot</span>(Omega_finite) <span class="sc">+</span> mytheme</span>
+<span id="cb25-2"><a href="#cb25-2"></a>  <span class="sc">+</span> <span class="fu">geom_point</span>(<span class="fu">aes</span>(X,Y), <span class="at">size=</span><span class="dv">5</span>)</span>
+<span id="cb25-3"><a href="#cb25-3"></a>  <span class="sc">+</span> <span class="fu">geom_rect</span>(<span class="at">xmin=</span><span class="dv">0</span>, <span class="at">xmax=</span><span class="dv">2</span>, <span class="at">ymin=</span><span class="dv">10</span>, <span class="at">ymax=</span><span class="dv">1000</span>,</span>
+<span id="cb25-4"><a href="#cb25-4"></a>              <span class="at">fill=</span><span class="st">"#00BFC4"</span>, <span class="at">alpha=</span><span class="fl">0.01</span>))</span></code><button title="Copy to Clipboard" class="code-copy-button"><i class="bi"></i></button></pre></div>
+
+</div>
+<img data-src="index_files/figure-revealjs/unnamed-chunk-21-1.png" width="960" class="r-stretch"></section>
+<section id="conditional-distribution-example---cont.-1" class="slide level2">
+<h2>Conditional distribution example - cont.</h2>
+<div class="cell">
+<div class="sourceCode cell-code" id="cb26"><pre class="sourceCode numberSource r number-lines code-with-copy"><code class="sourceCode r"><span id="cb26-1"><a href="#cb26-1"></a>(<span class="fu">ggplot</span>(Omega_finite) <span class="sc">+</span> mytheme</span>
+<span id="cb26-2"><a href="#cb26-2"></a>  <span class="sc">+</span> <span class="fu">geom_point</span>(<span class="fu">aes</span>(X,Y,<span class="at">color=</span>Y<span class="sc">&gt;</span><span class="dv">10</span>), <span class="at">size=</span><span class="dv">5</span>))</span></code><button title="Copy to Clipboard" class="code-copy-button"><i class="bi"></i></button></pre></div>
+
+</div>
+<img data-src="index_files/figure-revealjs/unnamed-chunk-22-1.png" width="960" class="r-stretch"></section>
+<section id="conditional-distribution---cont." class="slide level2">
+<h2>Conditional distribution - cont.</h2>
+<div class="cell">
+<div class="sourceCode cell-code" id="cb27"><pre class="sourceCode numberSource r number-lines code-with-copy"><code class="sourceCode r"><span id="cb27-1"><a href="#cb27-1"></a>(Omega_finite <span class="sc">%&gt;%</span></span>
+<span id="cb27-2"><a href="#cb27-2"></a>    <span class="fu">ggplot</span>(<span class="fu">aes</span>(X,..density..)) <span class="sc">+</span> mytheme</span>
+<span id="cb27-3"><a href="#cb27-3"></a>  <span class="sc">+</span> <span class="fu">geom_histogram</span>(<span class="fu">aes</span>(<span class="at">fill=</span><span class="fu">factor</span>(Y<span class="sc">&gt;</span><span class="dv">10</span>)),</span>
+<span id="cb27-4"><a href="#cb27-4"></a>                   <span class="at">position=</span><span class="st">"identity"</span>,</span>
+<span id="cb27-5"><a href="#cb27-5"></a>                   <span class="at">alpha=</span><span class="fl">0.8</span>))</span></code><button title="Copy to Clipboard" class="code-copy-button"><i class="bi"></i></button></pre></div>
+
+</div>
+<img data-src="index_files/figure-revealjs/unnamed-chunk-23-1.png" width="960" class="r-stretch"></section>
 <section id="conditional-expectation-given-an-event" class="slide level2">
 <h2>Conditional expectation given an event</h2>
 <p>Given a random variable <span class="math inline">\(X:\Omega \to \mathbb{R}\)</span> and an event <span class="math inline">\(B\)</span> such that <span class="math inline">\(\mathbb{P}(B)&gt;0\)</span>, the conditional expectation <span class="math inline">\(\mathbb{E}(X \vert B)\)</span> is defined as the expectation of the conditional distribution.</p>
 <div class="cell">
-<div class="sourceCode cell-code" id="cb24"><pre class="sourceCode numberSource r number-lines code-with-copy"><code class="sourceCode r"><span id="cb24-1"><a href="#cb24-1"></a>Omega_finite <span class="sc">%&gt;%</span></span>
-<span id="cb24-2"><a href="#cb24-2"></a><span class="fu">filter</span>(Y<span class="sc">&gt;</span><span class="dv">10</span>) <span class="sc">%&gt;%</span></span>
-<span id="cb24-3"><a href="#cb24-3"></a><span class="fu">pull</span>(X) <span class="sc">%&gt;%</span></span>
-<span id="cb24-4"><a href="#cb24-4"></a>mean</span></code><button title="Copy to Clipboard" class="code-copy-button"><i class="bi"></i></button></pre></div>
+<div class="sourceCode cell-code" id="cb28"><pre class="sourceCode numberSource r number-lines code-with-copy"><code class="sourceCode r"><span id="cb28-1"><a href="#cb28-1"></a>Omega_finite <span class="sc">%&gt;%</span></span>
+<span id="cb28-2"><a href="#cb28-2"></a><span class="fu">filter</span>(Y<span class="sc">&gt;</span><span class="dv">10</span>) <span class="sc">%&gt;%</span></span>
+<span id="cb28-3"><a href="#cb28-3"></a><span class="fu">pull</span>(X) <span class="sc">%&gt;%</span></span>
+<span id="cb28-4"><a href="#cb28-4"></a>mean</span></code><button title="Copy to Clipboard" class="code-copy-button"><i class="bi"></i></button></pre></div>
 <div class="cell-output cell-output-stdout">
 <pre><code>[1] 0.2342998</code></pre>
 </div>
